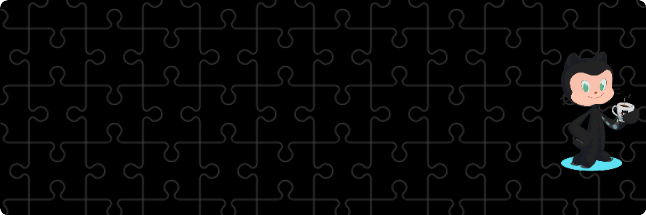
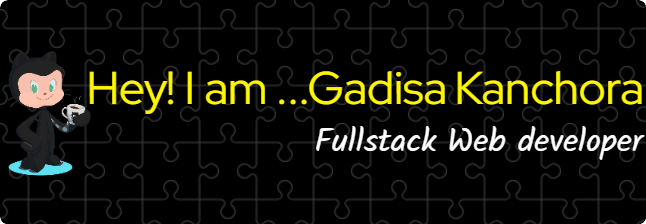
updated

diff --git a/README.md b/README.md
@@ -1,9 +1,8 @@
 <div align="center">
   <img src="./bg-image.png" alt="Banner" style="width: 100%; height: auto;" />
-  <h1>Hi 👋, I'm Gadisa Kanchora</h1>
 </div>
 
-<h3 align="center">A passionate frontend developer from Ethiopia</h3>
+<h2 align="center">A passionate web developer from Ethiopia</h2>
 
 <h3 align="left">🏆 Achievements & Learning Journey</h3>
 <ul>
